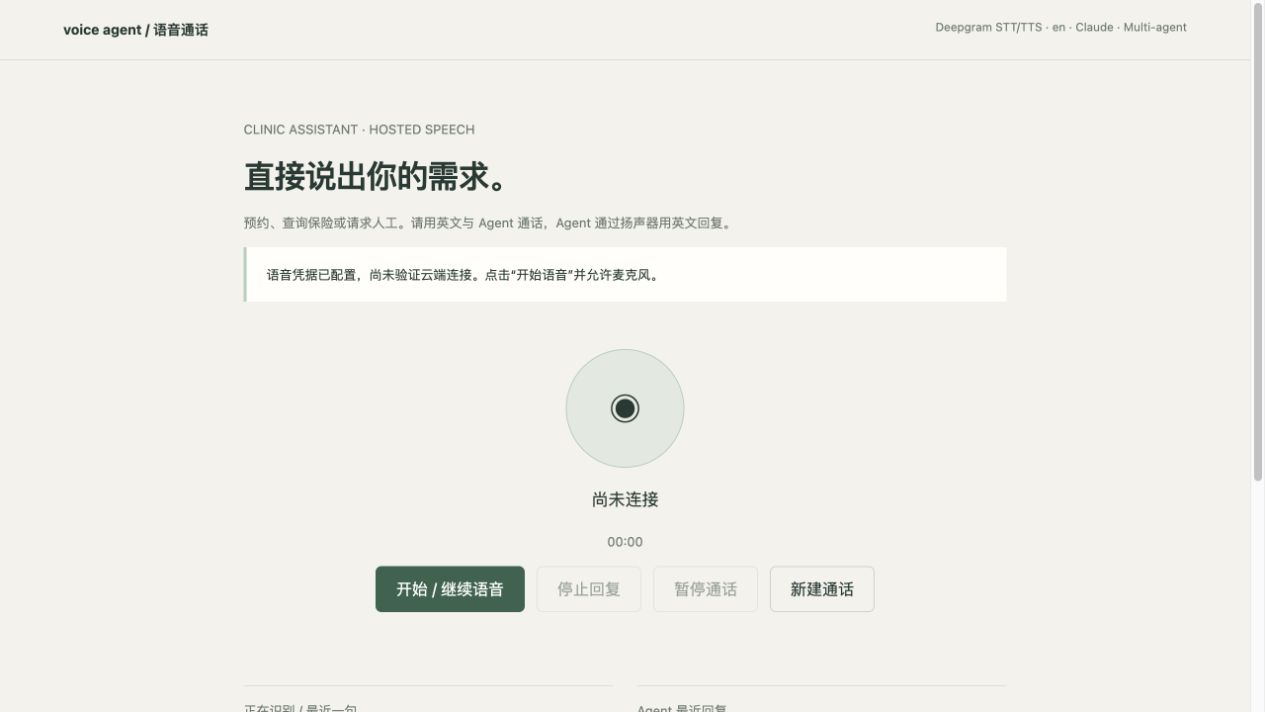
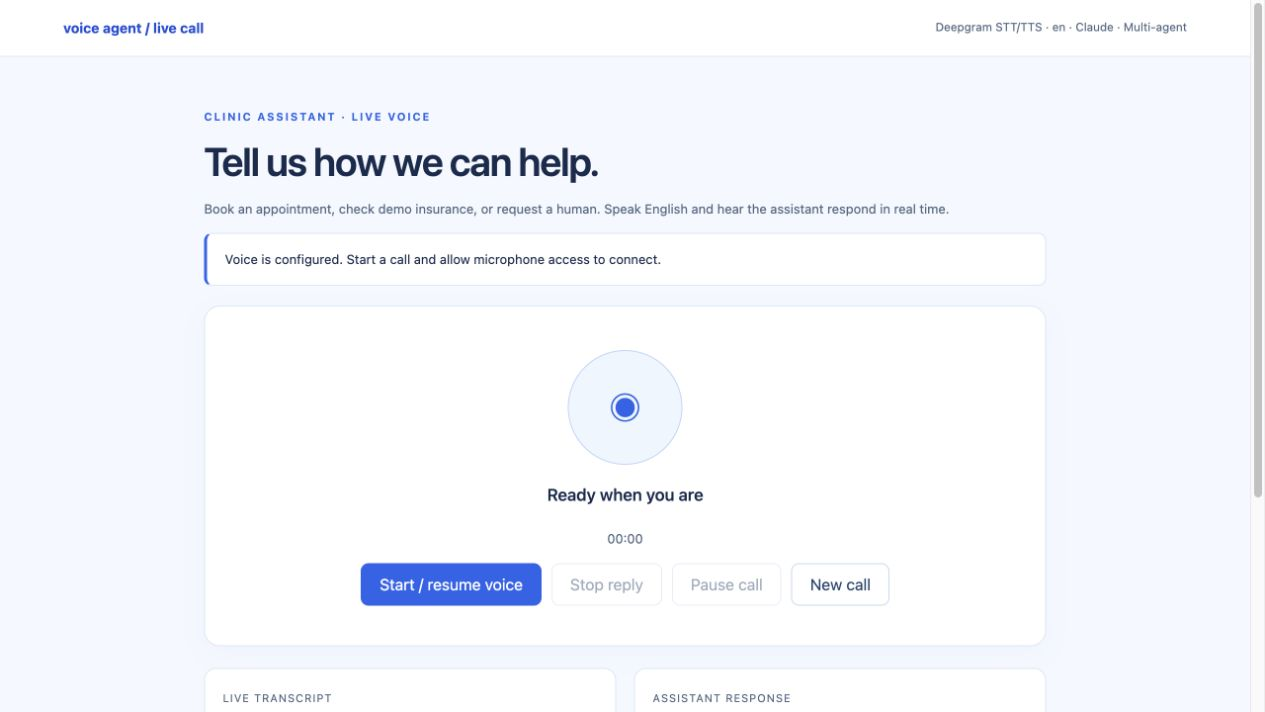
Refresh voice and debug interfaces with English copy and blue theme

diff --git a/voice_agent/static/index.html b/voice_agent/static/index.html
@@ -1,18 +1,18 @@
 <!doctype html>
-<html lang="zh-CN">
+<html lang="en">
 <head>
   <meta charset="utf-8">
   <meta name="viewport" content="width=device-width, initial-scale=1">
-  <title>Voice Agent · 本地开发台</title>
+  <title>Voice Agent · Text Debugger</title>
   <style>
-    :root { color-scheme: light; --bg:#f3f2ed; --paper:#fffefa; --ink:#253a33; --muted:#6c7972; --line:#dedfd5; --green:#35634d; --soft:#e8ede4; }
+    :root { color-scheme: light; --bg:#f4f8ff; --paper:#ffffff; --ink:#172b4d; --muted:#526782; --line:#dbe7f5; --blue:#2563eb; --soft:#eff6ff; }
     * { box-sizing:border-box; }
     body { margin:0; font:15px/1.65 -apple-system,BlinkMacSystemFont,"Segoe UI",sans-serif; color:var(--ink); background:var(--bg); }
     button,input { font:inherit; }
     button { cursor:pointer; }
     button:disabled { opacity:.5; cursor:wait; }
-    button:focus-visible,input:focus-visible,a:focus-visible { outline:3px solid #8ba897; outline-offset:3px; }
-    header { border-bottom:1px solid var(--line); padding:20px 5vw; display:flex; justify-content:space-between; gap:18px; align-items:center; }
+    button:focus-visible,input:focus-visible,a:focus-visible { outline:3px solid #93c5fd; outline-offset:3px; }
+    header { background:#fff; border-bottom:1px solid var(--line); padding:20px 5vw; display:flex; justify-content:space-between; gap:18px; align-items:center; }
     .brand { font-size:18px; font-weight:650; letter-spacing:-.5px; }
     .brand span { color:var(--muted); font-size:12px; font-weight:450; letter-spacing:1px; margin-left:12px; }
     .mode { font-size:12px; border:1px solid var(--line); border-radius:20px; padding:4px 12px; }
@@ -38,7 +38,7 @@
     .example { background:transparent; border:1px solid var(--line); color:var(--muted); padding:4px 10px; font-size:12px; border-radius:20px; }
     form { display:flex; gap:9px; }
     input { min-width:0; flex:1; padding:11px 12px; border:1px solid var(--line); border-radius:6px; color:var(--ink); background:white; }
-    .send { border:0; border-radius:6px; color:white; background:var(--green); padding:10px 20px; }
+    .send { border:0; border-radius:6px; color:white; background:var(--blue); padding:10px 20px; }
     .hint { font-size:11px; color:var(--muted); margin:9px 0 0; }
     .side { display:flex; flex-direction:column; gap:18px; min-width:0; }
     .framework { padding:20px; }
@@ -46,7 +46,7 @@
     .connector { text-align:center; color:var(--muted); font-size:18px; line-height:30px; }
     .workflows { display:grid; grid-template-columns:repeat(3,1fr); gap:6px; }
     .workflow { text-align:center; border:1px solid var(--line); padding:9px 3px; border-radius:5px; font-size:12px; }
-    .workflow.active { border-color:var(--green); background:var(--soft); font-weight:600; }
+    .workflow.active { border-color:var(--blue); background:var(--soft); font-weight:600; }
     dl { margin:18px 0 0; font-size:12px; }
     dl div { display:flex; justify-content:space-between; gap:12px; border-bottom:1px solid var(--line); padding:7px 0; }
     dt { color:var(--muted); }
@@ -57,53 +57,53 @@
     details { margin:0 20px 18px; font-size:12px; }
     summary { cursor:pointer; color:var(--muted); }
     pre { max-height:260px; overflow:auto; white-space:pre-wrap; overflow-wrap:anywhere; font-size:11px; }
-    .error { padding:0 20px; color:#a34b3a; font-size:13px; }
+    .error { padding:0 20px; color:#b42318; font-size:13px; }
     footer { margin-top:23px; display:flex; justify-content:space-between; flex-wrap:wrap; gap:10px; color:var(--muted); font-size:11px; }
-    a { color:var(--green); text-underline-offset:3px; }
+    a { color:var(--blue); text-underline-offset:3px; }
     @media(max-width:800px) { .layout { grid-template-columns:1fr; } .intro { align-items:start; } .chat { height:380px; } main { padding-top:24px; } }
     @media(max-width:430px) { .brand span { display:none; } .intro { flex-direction:column; gap:14px; } .message { max-width:100%; } .send { padding:10px 13px; } input { font-size:16px; } }
   </style>
 </head>
 <body>
-<header><div class="brand">voice agent<span>FOUNDATION / 01</span></div><div class="mode" id="mode">连接中</div></header>
+<header><div class="brand">voice agent<span>TEXT DEBUGGER</span></div><div class="mode" id="mode">Connecting…</div></header>
 <main>
-  <div class="intro"><div><p class="eyebrow">Clinic assistant · local workspace</p><h1>从一段对话，走完一条流程。</h1><p class="subtitle">预约、保险、转人工。观察每一步决策与实际执行结果。</p></div><button class="quiet" id="new-call">新建测试电话 ↗</button></div>
+  <div class="intro"><div><p class="eyebrow">Clinic assistant · local workspace</p><h1>A conversation. A clear next step.</h1><p class="subtitle">Test appointments, demo insurance, and human escalation. Follow each decision and its verified result.</p></div><button class="quiet" id="new-call">New test call ↗</button></div>
   <div class="layout">
-    <section class="panel" aria-label="对话测试">
-      <div class="panel-title"><span>通话模拟 · 文字输入</span><small id="call-label">等待建立会话</small></div>
-      <div class="chat" id="chat" role="log" aria-label="对话记录" aria-live="polite"></div>
+    <section class="panel" aria-label="Conversation test">
+      <div class="panel-title"><span>Call simulator · Text input</span><small id="call-label">Waiting for a session</small></div>
+      <div class="chat" id="chat" role="log" aria-label="Conversation history" aria-live="polite"></div>
       <p class="error" id="error" role="alert"></p>
       <div class="composer">
-        <div class="examples"><button class="example" data-example="booking">预约洗牙</button><button class="example" data-example="insurance">查保险</button><button class="example" data-example="combined">预约 + 保险</button><button class="example" data-example="confirm">确认预约</button><button class="example" data-example="handoff">转人工</button></div>
-        <form id="form"><label for="message" hidden>输入测试消息</label><input id="message" placeholder="输入你的需求…" autocomplete="off" maxlength="2000" required><button class="send" id="send" type="submit">发送 ↑</button></form>
-        <p class="hint">预约使用本地 SQL；保险使用演示规则。请使用虚构电话和姓名；转人工仅记录 human escalation。</p>
+        <div class="examples"><button class="example" data-example="booking">Book a cleaning</button><button class="example" data-example="insurance">Check insurance</button><button class="example" data-example="combined">Booking + insurance</button><button class="example" data-example="confirm">Confirm booking</button><button class="example" data-example="handoff">Human escalation</button></div>
+        <form id="form"><label for="message" hidden>Enter a test message</label><input id="message" placeholder="How can we help?" autocomplete="off" maxlength="2000" required><button class="send" id="send" type="submit">Send ↑</button></form>
+        <p class="hint">Demo workspace: use fictional names and phone numbers. Appointments use local SQL; insurance uses demo rules. Human escalation records a request without connecting an operator.</p>
       </div>
     </section>
     <aside class="side">
-      <section class="panel" aria-label="框架与状态"><div class="panel-title"><span>运行中的框架</span><small>LangGraph</small></div>
-        <div class="framework"><div class="orchestrator" id="router-label">Orchestrator · 意图与状态</div><div class="connector" aria-hidden="true">↓</div><div class="workflows"><div class="workflow" data-workflow="booking">预约</div><div class="workflow" data-workflow="insurance">保险</div><div class="workflow" data-workflow="handoff">转人工</div></div>
-          <dl><div><dt>当前状态</dt><dd id="status">—</dd></div><div><dt>业务接口</dt><dd>Local SQL / Demo RAG</dd></div><div><dt>预约结果</dt><dd id="booking-result">尚未创建</dd></div><div><dt>本轮耗时</dt><dd id="latency">—</dd></div></dl>
+      <section class="panel" aria-label="Architecture and state"><div class="panel-title"><span>Live architecture</span><small>LangGraph</small></div>
+        <div class="framework"><div class="orchestrator" id="router-label">Orchestrator · Intent and state</div><div class="connector" aria-hidden="true">↓</div><div class="workflows"><div class="workflow" data-workflow="booking">Booking</div><div class="workflow" data-workflow="insurance">Insurance</div><div class="workflow" data-workflow="handoff">Human escalation</div></div>
+          <dl><div><dt>Current status</dt><dd id="status">—</dd></div><div><dt>Business backend</dt><dd>Local SQL / Demo RAG</dd></div><div><dt>Appointment reference</dt><dd id="booking-result">Not created</dd></div><div><dt>Turn latency</dt><dd id="latency">—</dd></div></dl>
         </div>
       </section>
-      <section class="panel" aria-label="本轮执行路径"><div class="panel-title"><span>执行轨迹</span><small id="trace-label">TRACE</small></div><div class="trace" id="trace"><span class="empty">发送消息后，查看路由与工具调用。</span></div><details><summary>查看完整状态与业务结果</summary><pre id="state">{}</pre></details></section>
+      <section class="panel" aria-label="Current execution path"><div class="panel-title"><span>Execution trace</span><small id="trace-label">TRACE</small></div><div class="trace" id="trace"><span class="empty">Send a message to inspect routing and tool calls.</span></div><details><summary>View full state and business results</summary><pre id="state">{}</pre></details></section>
     </aside>
   </div>
-  <footer><span>Claude API · LangChain · LangGraph · Eval scaffold</span><span><a href="/docs" target="_blank" rel="noreferrer">API 文档 ↗</a> · <a href="/api/framework" target="_blank" rel="noreferrer">Graph 定义 ↗</a></span></footer>
+  <footer><span>Claude API · LangChain · LangGraph · Eval scaffold</span><span><a href="/docs" target="_blank" rel="noreferrer">API documentation ↗</a> · <a href="/api/framework" target="_blank" rel="noreferrer">Graph definition ↗</a></span></footer>
 </main>
 <script>
   const $ = id => document.getElementById(id);
   let callId = null, busy = false, health = null, pending = null;
-  const statusLabels = {ready:'准备就绪',needs_information:'等待补充信息',awaiting_confirmation:'等待用户确认',completed:'任务完成',cancelled:'待提交预约已放弃',unknown:'结果待核验',tool_error:'工具调用失败',model_error:'模型服务不可用',human_escalation:'已标记人工处理'};
+  const statusLabels = {ready:'Ready',needs_information:'Needs information',awaiting_confirmation:'Awaiting confirmation',completed:'Completed',cancelled:'Pending offer discarded',unknown:'Result unverified',tool_error:'Tool call failed',model_error:'Model unavailable',human_escalation:'Marked for human escalation'};
   async function api(path, options={}) {
     const response = await fetch(path, {...options, headers:{'Content-Type':'application/json', ...options.headers}});
     const body = await response.json();
-    if (!response.ok) throw new Error(typeof body.detail === 'string' ? body.detail : '请求失败，请检查输入后重试');
+    if (!response.ok) throw new Error(typeof body.detail === 'string' && !/[\u3400-\u9fff]/.test(body.detail) ? body.detail : `Request failed (HTTP ${response.status}). Start a new call or check the service log.`);
     return body;
   }
   function setBusy(value) {
     busy=value; $('form').setAttribute('aria-busy',String(value));
     document.querySelectorAll('button').forEach(b=>b.disabled=value);
-    $('message').disabled=value; $('send').textContent=value?'处理中…':'发送 ↑';
+    $('message').disabled=value; $('send').textContent=value?'Working…':'Send ↑';
   }
   function message(role, content) {
     const row=document.createElement('div'); row.className='message '+role;
@@ -114,7 +114,7 @@
   function render(state, data={}) {
     $('status').textContent=statusLabels[state.status]||state.status;
     $('call-label').textContent='CALL / '+state.call_id.slice(0,8);
-    $('booking-result').textContent=state.booking?.id||'尚未创建';
+    $('booking-result').textContent=state.booking?.id||'Not created';
     $('latency').textContent=data.duration_ms!==undefined?data.duration_ms+' ms':'—';
     document.querySelectorAll('[data-workflow]').forEach(e=>e.classList.toggle('active',e.dataset.workflow===(state.active_workflow||state.route)));
     $('state').textContent=JSON.stringify({state, outcomes:data.outcomes||null},null,2);
@@ -123,10 +123,10 @@
     for(const event of events) {
       const row=document.createElement('div'); row.className='trace-row';
       const name=document.createElement('span'); name.textContent=event.node;
-      const result=document.createElement('span'); result.textContent=event.route||event.result?.status||event.status||'执行';
+      const result=document.createElement('span'); result.textContent=event.route||event.result?.status||event.status||'Executed';
       row.append(name,result); $('trace').append(row);
     }
-    if(!events.length) $('trace').textContent='发送消息后，查看路由与工具调用。';
+    if(!events.length) $('trace').textContent='Send a message to inspect routing and tool calls.';
     $('trace-label').textContent=data.trace_id?'# '+data.trace_id.slice(0,8):'TRACE';
   }
   async function newCall() {
@@ -138,8 +138,8 @@
   document.querySelectorAll('[data-example]').forEach(button=>button.addEventListener('click',()=>{
     const tomorrow=new Date(Date.now()+86400000);
     const date=new Intl.DateTimeFormat('en-CA',{timeZone:health?.timezone||'America/Los_Angeles',year:'numeric',month:'2-digit',day:'2-digit'}).format(tomorrow);
-    const booking=`预约洗牙，姓名：小林，电话：2025550100，${date} 14:00`;
-    const samples={booking,insurance:'查保险：Aetna，会员号：DEMO123，洗牙',combined:booking+'，也查保险：Aetna，会员号：DEMO123，洗牙',confirm:'确认预约',handoff:'转人工'};
+    const booking=`Book a cleaning for Alex, phone 2025550100, on ${date} at 14:00`;
+    const samples={booking,insurance:'Check Aetna insurance, member ID DEMO123, service cleaning',combined:booking+'. Also check Aetna insurance, member ID DEMO123, service cleaning.',confirm:'Confirm booking.',handoff:'I would like to speak to a human.'};
     $('message').value=samples[button.dataset.example]; $('message').focus();
   }));
   $('form').addEventListener('submit',async event=>{
@@ -152,13 +152,13 @@
       message('user',text); message('assistant',data.state.reply); render(data.state,data);
       $('message').value=''; pending=null;
       const snapshot=await api(`/api/calls/${callId}`); $('state').textContent=JSON.stringify({state:snapshot.state,outcomes:snapshot.outcomes},null,2);
-    } catch(error) { $('error').textContent=error.message+'；如遇网络问题，可原样重试。'; }
+    } catch(error) { $('error').textContent=error.message+' If the connection failed, retry the same message.'; }
     finally {setBusy(false);$('message').focus();}
   });
   async function start() {
     setBusy(true);
     try {
-      health=await api('/health'); $('mode').textContent=health.mode==='claude'?'CLAUDE / API':'MOCK / 离线模式';
+      health=await api('/health'); $('mode').textContent=health.mode==='claude'?'CLAUDE / API':'MOCK / OFFLINE';
       $('router-label').textContent=health.mode==='claude'?'Claude → Orchestrator':'Mock → Orchestrator';
       const saved=localStorage.getItem('voice-agent-call');
       if(saved) {
@@ -169,7 +169,7 @@
           render(data.state,data);
         } catch { await newCall(); }
       } else await newCall();
-    } catch(e) { $('error').textContent='服务连接失败：'+e.message; }
+    } catch(e) { $('error').textContent='Could not connect to the service: '+e.message; }
     finally {setBusy(false);}
   }
   start();

diff --git a/voice_agent/static/voice.js b/voice_agent/static/voice.js
@@ -1,22 +1,23 @@
 const $=id=>document.getElementById(id);
 let health, socket, context, stream, inputNode, source, mute, generation=0, nextAt=0, sources=new Set(), connected=false, starting=false, clockTimer, startedAt, sampleRemainder=null, awaitingInterrupt=false, completedTraceId=null;
-async function request(path,options={}){const r=await fetch(path,options);const b=await r.json();if(!r.ok)throw Error(typeof b.detail==='string'?b.detail:'请求失败');return b;}
+async function request(path,options={}){const r=await fetch(path,options);const b=await r.json();if(!r.ok)throw Error(typeof b.detail==='string'&&!/[\u3400-\u9fff]/.test(b.detail)?b.detail:`Request failed (HTTP ${r.status}). Start a new call or check the service log.`);return b;}
+function voiceError(data){const messages={speech_not_configured:'Voice is not configured. Add a Deepgram API key and restart the service.',speech_init_failed:'Could not initialize voice. Check your configuration and service logs.',already_connected:'This call is already open in another voice session.',voice_error:'The voice connection ended unexpectedly. Reconnect or check the service logs.',turn_error:'The request could not be completed. Check its saved state before retrying.',tts_error:'Speech synthesis failed. Your verified business result is still available.'};return messages[data.code]||(/[\u3400-\u9fff]/.test(data.message||'')?'Voice request failed. Check the service logs.':data.message)||'Voice request failed.';}
 function status(text){$('status').textContent=text;}
 function clearAudio(){for(const s of sources){try{s.stop();}catch{}}sources.clear();nextAt=0;sampleRemainder=null;}
-function interrupt(){clearAudio();awaitingInterrupt=true;if(socket?.readyState===WebSocket.OPEN)socket.send(JSON.stringify({type:'interrupt'}));status('正在聆听…');}
+function interrupt(){clearAudio();awaitingInterrupt=true;if(socket?.readyState===WebSocket.OPEN)socket.send(JSON.stringify({type:'interrupt'}));status('Listening…');}
 function playback(data){
   if(data.generation!==generation||!context||awaitingInterrupt)return;
   let bytes=Uint8Array.from(atob(data.data),c=>c.charCodeAt(0));
   if(sampleRemainder!==null){const joined=new Uint8Array(bytes.length+1);joined[0]=sampleRemainder;joined.set(bytes,1);bytes=joined;sampleRemainder=null;}
   if(bytes.length%2){sampleRemainder=bytes[bytes.length-1];bytes=bytes.slice(0,-1);}
   if(!bytes.length)return;
-  if(nextAt-context.currentTime>60){interrupt();$('error').textContent='播放队列过长，已停止回复。';return;}
+  if(nextAt-context.currentTime>60){interrupt();$('error').textContent='Playback stopped because the audio queue was too long.';return;}
   const view=new DataView(bytes.buffer,bytes.byteOffset,bytes.byteLength), buffer=context.createBuffer(1,bytes.length/2,16000), pcm=buffer.getChannelData(0);
   for(let i=0;i<pcm.length;i++)pcm[i]=view.getInt16(i*2,true)/32768;
   const player=context.createBufferSource();player.buffer=buffer;player.connect(context.destination);
   nextAt=Math.max(context.currentTime+.03,nextAt);sources.add(player);
-  player.onended=()=>{sources.delete(player);player.disconnect();if(!sources.size&&connected)status('正在聆听…');};
-  player.start(nextAt);nextAt+=buffer.duration;status('Agent 正在回复…');
+  player.onended=()=>{sources.delete(player);player.disconnect();if(!sources.size&&connected)status('Listening…');};
+  player.start(nextAt);nextAt+=buffer.duration;status('Assistant is speaking…');
 }
 async function stop(){
   connected=false;starting=false;clearAudio();clearInterval(clockTimer);$('orb').classList.remove('live');
@@ -25,20 +26,20 @@ async function stop(){
   source?.disconnect();source=null;mute?.disconnect();mute=null;
   stream?.getTracks().forEach(t=>t.stop());stream=null;
   if(context){await context.close().catch(()=>{});context=null;}
-  $('start').disabled=!health?.speech.configured;$('stop').disabled=true;$('interrupt').disabled=true;status('通话已暂停，可继续上次通话');
+  $('start').disabled=!health?.speech.configured;$('stop').disabled=true;$('interrupt').disabled=true;status('Call paused. Resume whenever you are ready.');
 }
 async function check(){
   try{
     health=await request('/health');const speech=health.speech;
-    $('engine').textContent=`Deepgram STT/TTS · ${speech.language} · ${health.mode==='claude'?(health.architecture==='multi-agent'?'Claude · Multi-agent':'Claude · Workflow'):'Mock 意图识别'}`;
-    $('configuration').textContent=speech.configured?'语音凭据已配置，尚未验证云端连接。点击“开始语音”并允许麦克风。'+(health.mode==='mock'?'当前意图识别为 Mock，请在 .env 设置 AGENT_MODE=claude 以使用 Claude。':''):'语音尚未启用：请在本机 .env 配置 DEEPGRAM_API_KEY，然后重启服务。';
+    $('engine').textContent=`Deepgram STT/TTS · ${speech.language} · ${health.mode==='claude'?(health.architecture==='multi-agent'?'Claude · Multi-agent':'Claude · Workflow'):'Demo mode'}`;
+    $('configuration').textContent=speech.configured?'Voice is configured. Start a call and allow microphone access to connect.'+(health.mode==='mock'?' Demo mode uses deterministic responses.':''):'Voice is not configured. Add DEEPGRAM_API_KEY to your local .env and restart the service.';
     $('start').disabled=!speech.configured||connected||starting;
   }catch(e){$('error').textContent=e.message;}
 }
 $('start').onclick=async()=>{
-  if(starting||connected)return;starting=true;awaitingInterrupt=false;$('start').disabled=true;$('stop').disabled=false;$('error').textContent='';status('正在连接语音服务…');
+  if(starting||connected)return;starting=true;awaitingInterrupt=false;$('start').disabled=true;$('stop').disabled=false;$('error').textContent='';status('Connecting to voice…');
   try{
-    if(!navigator.mediaDevices?.getUserMedia||!window.AudioWorkletNode)throw Error('需要支持 AudioWorklet 的浏览器，并在 localhost 或 HTTPS 中打开。');
+    if(!navigator.mediaDevices?.getUserMedia||!window.AudioWorkletNode)throw Error('Use a browser that supports AudioWorklet, on localhost or HTTPS.');
     context=new AudioContext();await context.resume();
     stream=await navigator.mediaDevices.getUserMedia({audio:{channelCount:1,echoCancellation:true,noiseSuppression:true,autoGainControl:true}});
     if(!starting){await stop();return;}
@@ -46,31 +47,31 @@ $('start').onclick=async()=>{
     let call;const savedId=localStorage.getItem('voice-call-id');
     if(savedId){try{call=await request('/api/calls/'+encodeURIComponent(savedId));}catch{localStorage.removeItem('voice-call-id');}}
     call=call||await request('/api/calls',{method:'POST'});const callId=call.state.call_id;localStorage.setItem('voice-call-id',callId);$('call-id').textContent='CALL / '+callId.slice(0,8);
-    $('trace').textContent=JSON.stringify({call_id:callId,mode:health.mode},null,2);$('transcript').textContent='请直接说话。';$('reply').textContent=call.state.reply||'等待你的需求。';
+    $('trace').textContent=JSON.stringify({call_id:callId,mode:health.mode},null,2);$('transcript').textContent='Go ahead. We are listening.';$('reply').textContent=call.state.reply||'Ready to help.';
     const protocol=location.protocol==='https:'?'wss:':'ws:';socket=new WebSocket(`${protocol}//${location.host}/api/calls/${callId}/voice`);
     socket.onmessage=event=>{
       const data=JSON.parse(event.data);
       if(data.type==='ready'){
         connected=true;starting=false;generation=0;startedAt=Date.now();$('orb').classList.add('live');$('stop').disabled=false;$('interrupt').disabled=false;
         source=context.createMediaStreamSource(stream);inputNode=new AudioWorkletNode(context,'pcm-input');mute=context.createGain();mute.gain.value=0;source.connect(inputNode).connect(mute).connect(context.destination);
-        inputNode.port.onmessage=event=>{if(!connected)return;const msg=event.data;if(msg.type==='pcm'&&socket?.readyState===WebSocket.OPEN){if(socket.bufferedAmount>128000){$('error').textContent='音频网络拥塞，已结束通话。';void stop();return;}socket.send(msg.buffer);}else if(msg.type==='speech_started')interrupt();};
-        clockTimer=setInterval(()=>{const seconds=Math.floor((Date.now()-startedAt)/1000);$('timer').textContent=String(Math.floor(seconds/60)).padStart(2,'0')+':'+String(seconds%60).padStart(2,'0');},1000);status('正在聆听…');
+        inputNode.port.onmessage=event=>{if(!connected)return;const msg=event.data;if(msg.type==='pcm'&&socket?.readyState===WebSocket.OPEN){if(socket.bufferedAmount>128000){$('error').textContent='The audio connection is congested. The call has been paused.';void stop();return;}socket.send(msg.buffer);}else if(msg.type==='speech_started')interrupt();};
+        clockTimer=setInterval(()=>{const seconds=Math.floor((Date.now()-startedAt)/1000);$('timer').textContent=String(Math.floor(seconds/60)).padStart(2,'0')+':'+String(seconds%60).padStart(2,'0');},1000);status('Listening…');
       }else if(data.type==='transcript'){$('transcript').textContent=data.text+(data.final?'':' …');if(data.final){$('reply').textContent='';completedTraceId=null;}}
-      else if(data.type==='interrupt'){generation=data.generation;awaitingInterrupt=false;clearAudio();status('正在聆听…');}
+      else if(data.type==='interrupt'){generation=data.generation;awaitingInterrupt=false;clearAudio();status('Listening…');}
       else if(data.type==='reply_chunk'&&data.generation===generation&&!awaitingInterrupt&&data.trace_id!==completedTraceId){$('reply').textContent+=($('reply').textContent?'\n':'')+data.text;}
       else if(data.type==='turn_result'){completedTraceId=data.response.trace_id;$('reply').textContent=data.response.state.reply;$('trace').textContent=JSON.stringify(data.response,null,2);}
       else if(data.type==='audio_start'){generation=data.generation;sampleRemainder=null;}
       else if(data.type==='audio')playback(data);
-      else if(data.type==='status'&&data.status==='resuming')status('正在恢复上次任务…');
-      else if(data.type==='status'&&data.status==='thinking')status('正在处理你的需求…');
-      else if(data.type==='status'&&!sources.size)status('正在聆听…');
-      else if(data.type==='error'){$('error').textContent=data.message;if(data.code==='tts_error'){clearAudio();status('语音合成失败，业务结果见下方');}}
+      else if(data.type==='status'&&data.status==='resuming')status('Resuming your previous task…');
+      else if(data.type==='status'&&data.status==='thinking')status('Working on your request…');
+      else if(data.type==='status'&&!sources.size)status('Listening…');
+      else if(data.type==='error'){$('error').textContent=voiceError(data);if(data.code==='tts_error'){clearAudio();status('Audio unavailable. See the verified result below.');}}
     };
-    socket.onerror=()=>{$('error').textContent='语音连接失败，请检查配置和服务日志。';};
+    socket.onerror=()=>{$('error').textContent='Could not connect to voice. Check the configuration and service logs.';};
     socket.onclose=()=>{void stop();};
-  }catch(e){$('error').textContent=e.name==='NotAllowedError'?'麦克风权限未获允许，请在浏览器中开启后重试。':e.message;await stop();}
+  }catch(e){$('error').textContent=e.name==='NotAllowedError'?'Microphone access was denied. Enable it in your browser and try again.':e.message;await stop();}
 };
-$('new-call').onclick=async()=>{await stop();localStorage.removeItem('voice-call-id');$('call-id').textContent='';$('reply').textContent='等待新的通话。';$('transcript').textContent='';status('点击开始语音，建立新通话');};
+$('new-call').onclick=async()=>{await stop();localStorage.removeItem('voice-call-id');$('call-id').textContent='';$('reply').textContent='Ready for a new call.';$('transcript').textContent='';status('Select Start / resume voice to begin a new call.');};
 $('stop').onclick=()=>void stop();$('interrupt').onclick=interrupt;$('refresh').onclick=check;
 window.addEventListener('pagehide',()=>{stream?.getTracks().forEach(t=>t.stop());socket?.close();});
 check();

diff --git a/voice_agent/static/voice.html b/voice_agent/static/voice.html
@@ -1,15 +1,33 @@
 <!doctype html>
-<html lang="zh-CN">
-<head><meta charset="utf-8"><meta name="viewport" content="width=device-width,initial-scale=1"><title>Voice Agent · 语音通话</title>
+<html lang="en">
+<head>
+<meta charset="utf-8">
+<meta name="viewport" content="width=device-width,initial-scale=1">
+<title>Voice Agent · Live Call</title>
 <style>
-:root{color-scheme:light;font-family:-apple-system,BlinkMacSystemFont,"Segoe UI",sans-serif;color:#253a33;background:#f3f2ed}*{box-sizing:border-box}body{margin:0}header{padding:20px 5vw;border-bottom:1px solid #dedfd5;display:flex;justify-content:space-between;gap:15px;font-size:14px}header small{color:#6c7972}main{max-width:820px;margin:auto;padding:45px 24px}h1{font-size:32px;font-weight:550;letter-spacing:-1px;margin:8px 0}p{line-height:1.8}.muted{color:#6c7972;font-size:13px}.call{text-align:center;padding:28px 0}.orb{width:120px;height:120px;background:#e2e9df;border:1px solid #b8cdbb;border-radius:50%;margin:20px auto;display:grid;place-items:center;font-size:35px}.orb.live{background:#c4dfca;box-shadow:0 0 0 12px #e3ece1}button{font:inherit;cursor:pointer;border-radius:6px;padding:11px 20px;border:1px solid #cbd4c8;background:transparent;color:#253a33}button.primary{color:white;background:#35634d;border-color:#35634d}button:disabled{opacity:.45;cursor:not-allowed}button:focus-visible,a:focus-visible{outline:3px solid #8ba897;outline-offset:3px}.actions{display:flex;justify-content:center;gap:12px;flex-wrap:wrap}.status{min-height:30px;font-size:17px}#error{color:#9a4334;white-space:pre-wrap}.notice{padding:16px 20px;border-left:3px solid #b8cdbb;background:#fffefa;font-size:13px;line-height:1.8}.detail{display:grid;grid-template-columns:1fr 1fr;gap:24px;margin-top:30px}.detail div{border-top:1px solid #dedfd5;padding-top:14px;min-width:0}.detail p{overflow-wrap:anywhere;white-space:pre-wrap;min-height:70px}a{color:#35634d;text-underline-offset:3px}footer{font-size:12px;color:#6c7972;margin-top:28px;display:flex;gap:16px;flex-wrap:wrap}pre{font-size:11px;white-space:pre-wrap;overflow-wrap:anywhere;max-height:220px;overflow:auto}@media(max-width:550px){main{padding-top:25px}.detail{grid-template-columns:1fr;gap:6px}h1{font-size:26px}header small{display:none}}
-</style></head>
-<body><header><strong>voice agent / 语音通话</strong><small id="engine">加载配置…</small></header><main>
-<p class="muted">CLINIC ASSISTANT · HOSTED SPEECH</p><h1>直接说出你的需求。</h1><p class="muted">预约、查询保险或请求人工。请用英文与 Agent 通话，Agent 通过扬声器用英文回复。</p>
-<div class="notice" id="configuration" role="status">正在检查语音服务…</div>
-<section class="call" aria-label="语音控制"><div class="orb" id="orb" aria-hidden="true">◉</div><div class="status" id="status" aria-live="polite">尚未连接</div><p class="muted" id="timer">00:00</p><div class="actions"><button class="primary" id="start" disabled>开始 / 继续语音</button><button id="interrupt" disabled>停止回复</button><button id="stop" disabled>暂停通话</button><button id="new-call">新建通话</button></div><p id="error" role="alert"></p></section>
-<div class="detail"><div><small class="muted">正在识别 / 最近一句</small><p id="transcript" aria-live="polite">开始通话后直接讲话。</p></div><div><small class="muted">Agent 最近回复</small><p id="reply" aria-live="polite">回复会合成为声音播放。</p></div></div>
-<p class="muted">预约保存至本地 SQL 数据库，以电话号码识别客户；保险使用演示规则。请使用虚构信息。麦克风音频发送至 Deepgram，转写及必要上下文在 Claude 模式下发送至 Anthropic。当前入口是浏览器语音，电话网关尚未接入，转人工仅记录 human escalation。建议使用耳机。</p>
-<details><summary class="muted">执行状态与 Trace</summary><pre id="trace">等待语音输入</pre></details>
-<footer><a href="/debug">文字调试</a><a href="/docs">API 文档</a><button id="refresh">重新检查配置</button><span id="call-id"></span></footer>
-</main><script src="/assets/voice.js" defer></script></body></html>
+:root{color-scheme:light;font-family:-apple-system,BlinkMacSystemFont,"Segoe UI",sans-serif;color:#172b4d;background:#f4f8ff}
+*{box-sizing:border-box}body{margin:0}header{padding:20px 5vw;border-bottom:1px solid #dbe7f5;background:#fff;display:flex;justify-content:space-between;gap:15px;font-size:14px}header strong{color:#1d4ed8}header small{color:#526782}main{max-width:900px;margin:auto;padding:40px 24px}h1{font-size:clamp(30px,4vw,40px);font-weight:600;letter-spacing:-1.2px;margin:8px 0}p{line-height:1.8}.muted{color:#526782;font-size:13px}.eyebrow{color:#2563eb;font-size:11px;font-weight:650;letter-spacing:1.8px}.call{text-align:center;padding:24px 16px;margin-top:20px;background:#fff;border:1px solid #dbe7f5;border-radius:16px;box-shadow:0 8px 30px #1d4ed808}.orb{width:116px;height:116px;background:#eff6ff;color:#2563eb;border:1px solid #bfd5fb;border-radius:50%;margin:20px auto;display:grid;place-items:center;font-size:35px}.orb.live{background:#dbeafe;box-shadow:0 0 0 12px #eff6ff}button{font:inherit;cursor:pointer;border-radius:8px;padding:11px 18px;border:1px solid #c9d9ee;background:#fff;color:#24446d;transition:background .15s,border-color .15s}button:hover:not(:disabled){background:#eff6ff;border-color:#93b9f5}button.primary{color:#fff;background:#2563eb;border-color:#2563eb}button.primary:hover:not(:disabled){background:#1d4ed8;border-color:#1d4ed8}button:disabled{opacity:.45;cursor:not-allowed}button:focus-visible,a:focus-visible,summary:focus-visible{outline:3px solid #93c5fd;outline-offset:3px}.actions{display:flex;justify-content:center;gap:10px;flex-wrap:wrap}.status{min-height:30px;font-size:17px;font-weight:550}#error{color:#b42318;white-space:pre-wrap;margin-bottom:0}.notice{padding:14px 18px;border:1px solid #dbe7f5;border-left:3px solid #2563eb;border-radius:8px;background:#fff;font-size:13px;line-height:1.8}.detail{display:grid;grid-template-columns:1fr 1fr;gap:18px;margin-top:22px}.detail>div{border:1px solid #dbe7f5;border-radius:12px;background:#fff;padding:18px;min-width:0}.detail small{font-size:11px;letter-spacing:1px;text-transform:uppercase}.detail p{overflow-wrap:anywhere;white-space:pre-wrap;min-height:54px;margin-bottom:0}a{color:#1d4ed8;text-underline-offset:3px}footer{font-size:12px;color:#526782;margin-top:24px;display:flex;align-items:center;gap:16px;flex-wrap:wrap}footer button{padding:7px 12px;font-size:12px}details{border-top:1px solid #dbe7f5;padding-top:16px}summary{cursor:pointer}pre{font-size:11px;white-space:pre-wrap;overflow-wrap:anywhere;max-height:220px;overflow:auto}@media(max-width:550px){main{padding:24px 16px}.detail{grid-template-columns:1fr;gap:12px}header small{display:none}.call{padding:20px 12px}.actions{gap:8px}.actions button{padding:10px 12px;font-size:13px}}
+</style>
+</head>
+<body>
+<header><strong>voice agent / live call</strong><small id="engine">Loading configuration…</small></header>
+<main>
+<p class="eyebrow">CLINIC ASSISTANT · LIVE VOICE</p>
+<h1>Tell us how we can help.</h1>
+<p class="muted">Book an appointment, check demo insurance, or request a human. Speak English and hear the assistant respond in real time.</p>
+<div class="notice" id="configuration" role="status">Checking voice availability…</div>
+<section class="call" aria-label="Voice controls">
+<div class="orb" id="orb" aria-hidden="true">◉</div>
+<div class="status" id="status" aria-live="polite">Ready when you are</div>
+<p class="muted" id="timer">00:00</p>
+<div class="actions"><button class="primary" id="start" disabled>Start / resume voice</button><button id="interrupt" disabled>Stop reply</button><button id="stop" disabled>Pause call</button><button id="new-call">New call</button></div>
+<p id="error" role="alert"></p>
+</section>
+<div class="detail"><div><small class="muted">Live transcript</small><p id="transcript" aria-live="polite">Your words will appear here.</p></div><div><small class="muted">Assistant response</small><p id="reply" aria-live="polite">Listen to the reply and follow along here.</p></div></div>
+<p class="muted">Demo workspace: use fictional names and phone numbers. Audio is sent to Deepgram; transcripts and necessary context are sent to Anthropic in Claude mode. Appointments are stored locally, insurance uses demo rules, and human requests are recorded without connecting a live operator. Headphones recommended.</p>
+<details><summary class="muted">Execution details &amp; trace</summary><pre id="trace">Waiting for voice input.</pre></details>
+<footer><a href="/debug">Text debugger</a><a href="/docs">API documentation</a><button id="refresh">Check connection</button><span id="call-id"></span></footer>
+</main>
+<script src="/assets/voice.js" defer></script>
+</body>
+</html>

diff --git a/README.zh-CN.md b/README.zh-CN.md
@@ -29,7 +29,7 @@ bash scripts/setup.sh
 bash scripts/start.sh
 ```
 
-打开 <http://127.0.0.1:8765>，点击开始语音并允许麦克风。文字调试：<http://127.0.0.1:8765/debug>；API 文档：<http://127.0.0.1:8765/docs>。
+打开 <http://127.0.0.1:8765>，点击 **Start / resume voice** 并允许麦克风。语音页和文字调试页均为英文、蓝白配色。文字调试：<http://127.0.0.1:8765/debug>；API 文档：<http://127.0.0.1:8765/docs>。
 
 在本机 `.env` 配置（不要把 Key 放进聊天或 Git）：
 

diff --git a/README.md b/README.md
@@ -15,7 +15,7 @@ The engineering focus is **reliable execution under interruption**: independent 
 
 ![Browser voice interface](docs/assets/voice-demo.png)
 
-*Current local voice interface. The UI is in Chinese; spoken conversations and agent replies are in English. This screenshot shows the idle interface, not an active call.*
+*English voice interface with a blue-and-white theme. Spoken conversations and agent replies are in English. This screenshot shows the idle interface, not an active call.*
 
 ## What it does
 
